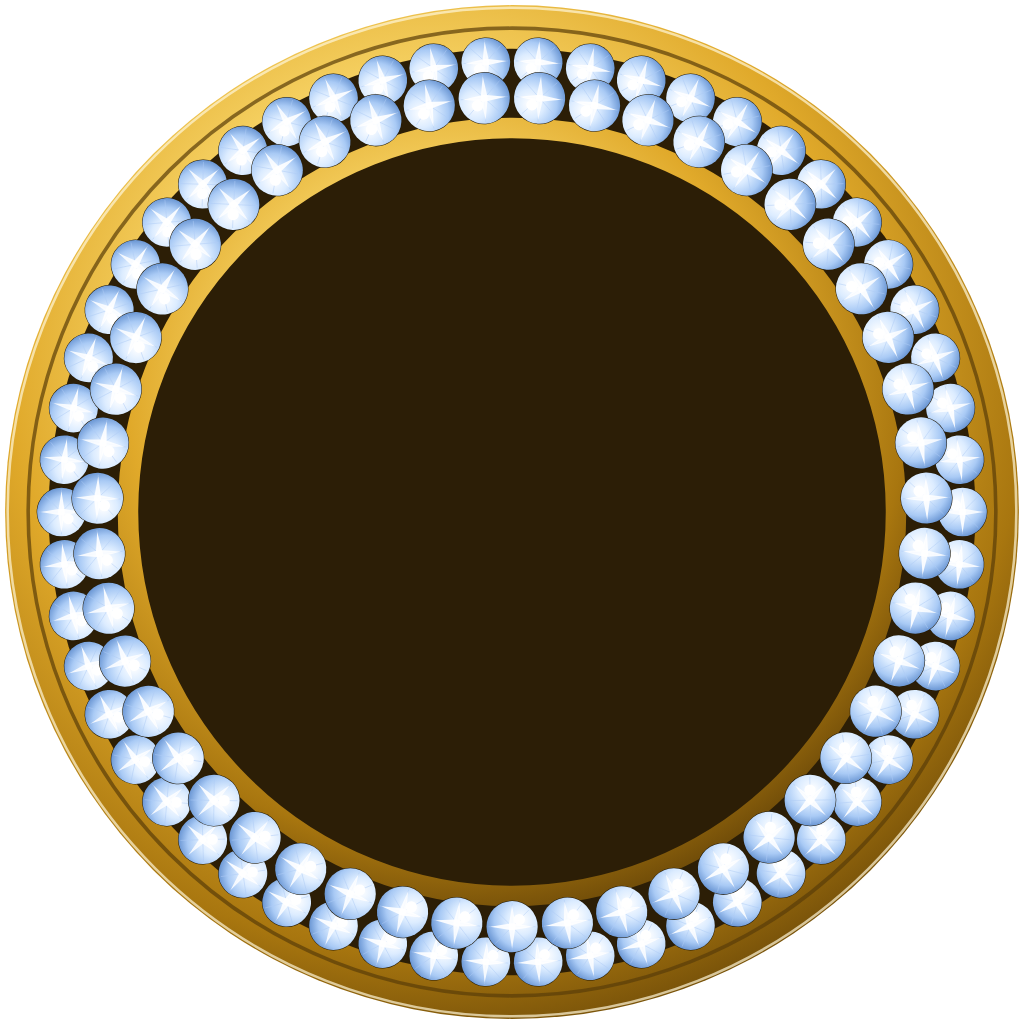
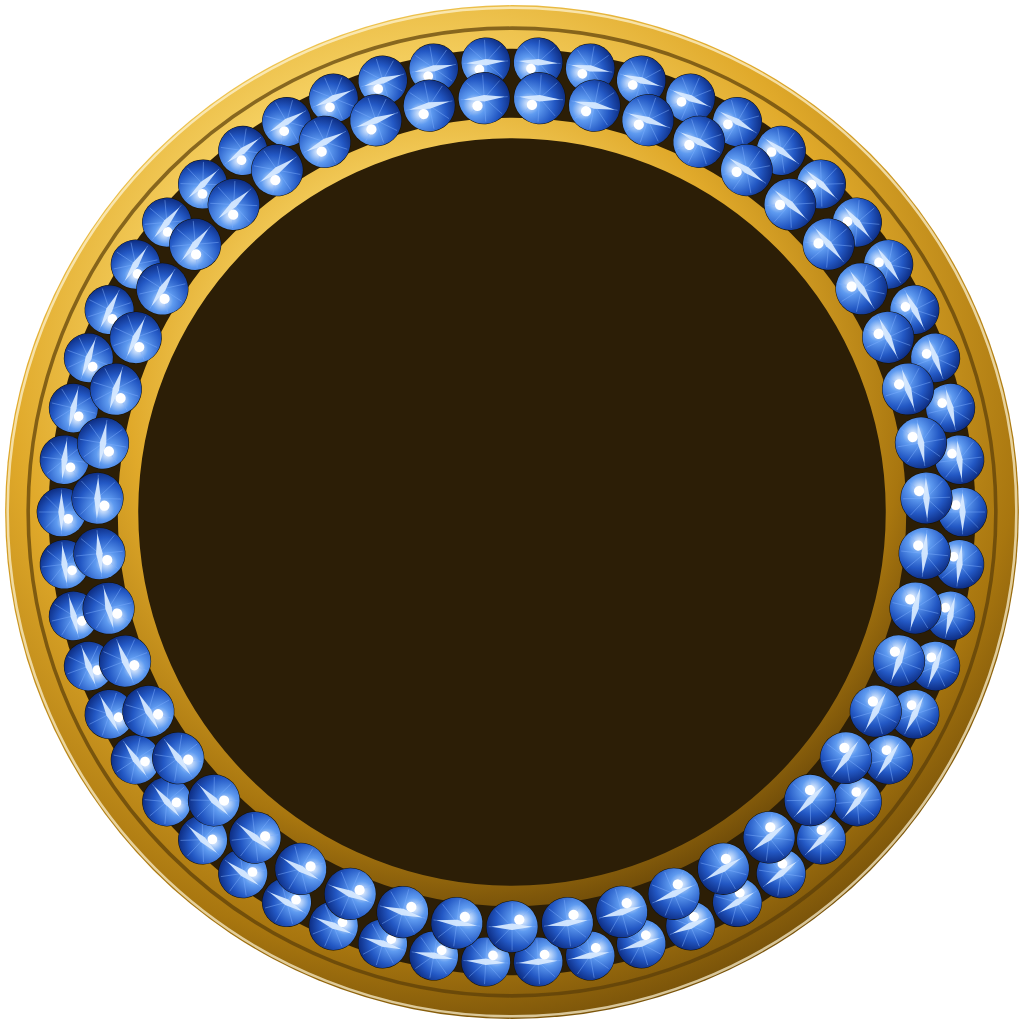
B131: Üstbar düzeltme — profil ayıdan büyük, ayı küçük + mavi safir taşlı
B130'da hiyerarşi ters dönmüştü (profil küçük, ayı büyük). Düzeltildi:
profil ayıdan büyük (telefon 44, tablet 48, pc 52), ayı profilden küçük
(telefon 36, tablet 40, pc 44). Ayı çerçevesi artık mavi safir taşlı
(profilin beyaz pırlantasından farklı) — ayı profille aynı görünmüyor.
sw.js B130->B131.

Claude-Session: https://claude.ai/code/session_01NL5UFbXL2aH6562eJk5V7E

Changed region(s): [[0.0312, 0.0312, 0.9688, 0.9688]]

diff --git a/src/buildGecmisi.js b/src/buildGecmisi.js
@@ -2,6 +2,7 @@
 // Her deploy'da AKTİF satırın: build +1, tarih, saat, aciklama güncelle.
 // Yeni A-serisine geçince başına yeni satır ekle — eski satırlar silinmez.
 export const buildGecmisi = [
+  { surum:'A11', build:131, dosya:'USTBAR DUZELTME (B130 ters olmustu): PROFIL AYIDAN BUYUK + AYI KUCUK + FARKLI RENK TAS (kullanici: "ayiyi cok buyuk yaptin, profilimle ayni cerceve olmaz musteriyi benimle esit yapma, ayinin taslarini baska renk yap, ayi profilden kucuk olacak, profili buyut"). B130 da yanlislikla profil kucultulup (40) ayi buyutulmustu (48) -> hiyerarsi TERS donmustu. DUZELTME: (1) PROFIL ayidan BUYUK: telefon 40->44, tablet 44->48, pc 46->52 (onceki 46 dan birazcik kucuk, kullanici "biraz ufalt" demisti). (2) AYI profilden KUCUK: dugme telefon 48->36, tablet 54->40, pc 62->44; pusula 33->25 / 37->28 / 42->31. (3) AYI TASLARI FARKLI RENK: profil BEYAZ pirlanta iken ayi cercevesi artik MAVI SAFIR taslarla (src/ayiCerceve.png yeniden cizildi) -> ayi profille AYNI gorunmuyor, ayri/ikincil duruyor. Altin halka kaldi. Kure ile ayi arasi bosluk korundu (margin-left:5px). Foto/islev degismedi. sw.js B130->B131.', tarih:'2026-07-07', saat:'21:05', aciklama:'Üstbar düzeltme: profil ayıdan büyük, ayı küçük ve mavi safir taşlı (profille aynı değil). Almanya saati.', tarih2:'' },
   { surum:'A11', build:130, dosya:'USTBAR: PROFIL BIRAZ KUCULDU + AYI (EKSPERT) DUGMESINE PIRLANTA CERCEVE + BIRAZ BUYUDU + KUREDEN UZAK (kullanici). (1) PROFIL cercevesi buyuktu -> .ana-profil telefon 46->40px (tablet 46->44, pc 48->46). (2) AYI DUGMESI (.ana-site-ai / ust Ekspert ayi) artik profil ile AYNI tarzda yuvarlak pirlanta cercevede: kodla cizilmis altin+pave elmas halka (merkez seffaf, src/ayiCerceve.png; Playwright rasterize), inline backgroundImage ile dugmeye kondu; ayinin kendi altin cizgi halkasi (svg circle stroke) kaldirildi (cerceve zaten altin) -> ayi lacivert madalyon icinde. CSS .ana-site-ai background:none !important KALDIRILDI (cerceve gorunsun diye). (3) AYI BIRAZ BUYUDU: dugme 42->48px, pusula 30->33px (tablet 54/37, pc 62/42). (4) AYI KUREYE GELMESIN: .ana-site-ai margin-left:6px -> ust dunya kuresi (.ana-dunya, altyazinin sagina absolute) ile ayi arasinda bosluk; dar telefonda bile cakismaz (360px maket ile dogrulandi). Foto/islev degismedi. sw.js B129->B130.', tarih:'2026-07-07', saat:'20:35', aciklama:'Üstbar: profil biraz küçüldü, ayı düğmesine pırlanta çerçeve + biraz büyüdü, ayı artık küreye değmiyor (arada boşluk). Almanya saati.', tarih2:'' },
   { surum:'A11', build:129, dosya:'YUVARLAK PROFIL CERCEVESI ARTIK SIFIRDAN KODLA CIZILDI (foto-kesme birakildi) — TAM DOLU PIRLANTA + ORTA KIRMIZI (kullanici: "kendin yuvarlak cerceve yap, tam dolu pirlanta olsun, hala ayi gozukuyor, foto yuklerken gorunmuyor, duzgun yuvarlak dugme yap"). Onceki surumlerde kullanicinin foto cercevesinden kesiliyordu -> ayi kalintisi/beyaz merkez/foto oturmama sorunlari. ARTIK: SVG ile tamamen kod cizimi (Playwright ile 1024px e rasterize, 512 ye indirildi, src/profilCerceve.png): dis parlak altin halka + koyu altin yatak + 3 SIRA sik pave pirlanta (176 tas, her biri radyal beyaz-mavi degrade + 8 faset cizgisi + 4 kollu yildiz isilti + koyu yatak) + ic altin halka + ORTA yakut kirmizi radyal degrade (parlak #ff5a63 merkez -> koyu #4a070d) + cam parlakligi. Tam simetrik, ayi/artik YOK. Aciklik (r144/200=%72) CSS foto bindirmesiyle (top/left 14%, %72) BIREBIR ortusur -> foto tam ortaya oturur, kirmizi bosluk yok; fotosuz uyede kirmizi + altin harf gorunur. cerceve.png (kare, alt nav) degismedi. CSS/islev degismedi. sw.js B128->B129.', tarih:'2026-07-07', saat:'20:05', aciklama:'Yuvarlak profil çerçevesi sıfırdan kodla çizildi: tam dolu 3 sıra pırlanta + orta kırmızı yakut, ayı yok, fotoğraf tam oturuyor. Almanya saati.', tarih2:'' },
   { surum:'A11', build:128, dosya:'HEADER YUVARLAK PROFIL CERCEVESI: AYI KALDIRILDI + ORTASI KIRMIZI (fotografsiz musteri artik cirkin beyaz gostermiyor). Kullanici (35857da9 gorseli, isaretleyerek): "bundan kes, ayiyi kaldir, altini kirmizi yap, duzgun simetrik kes". B127 deki yuvarlak cercevenin (61e2db98) ortasi fotografsiz uyede beyaz/bos gorunuyordu. YENI cerceve kullanicinin verdigi gorselden (35857da9 - altin halka + pave elmas + ortada altin ayi amblemi) PIL ile islendi: (1) dis altin halka disi flood/dairesel maske ile SEFFAF; (2) ORTADAKI AYI AMBLEMI tamamen kaldirildi, yerine YAKUT KIRMIZI radyal degrade (parlak #d41e26 merkez -> koyu #3e0a10 kenar) konuldu -> fotografsiz musteride ortada kirmizi + altin harf (beyaz degil); (3) altin+elmas halka korundu, artikta kalan altin hilal r_red buyutulup temizlendi, hafif yukari kaydirilip acikligin merkezine oturtuldu -> temiz, simetrik. src/profilCerceve.png degisti. CSS AYNI (foto hala top/left 14%, %72 bindirir; %72 yeni halkanin ic elmas kenarina tam oturuyor, kirmizi bosluk yok). Sadece gorsel; islev degismedi. sw.js B127->B128.', tarih:'2026-07-07', saat:'19:45', aciklama:'Header yuvarlak profil çerçevesi: ayı kaldırıldı, ortası kırmızı yakut yapıldı (fotoğrafsız müşteride artık çirkin beyaz yok, temiz simetrik). Almanya saati.', tarih2:'' },

diff --git a/src/Anasayfa.css b/src/Anasayfa.css
@@ -772,8 +772,8 @@
 .header-dil .dil-etiket{ display:none; }
 .header-dil .dil-dugme{ width:auto; height:auto; background:none; border:none; box-shadow:none; -webkit-backdrop-filter:none; backdrop-filter:none; }
 /* Pusula da AYNI boy (önceki .ana-ara-btn svg kuralı ufaltıyordu) + profile yakın */
-.ana-site-ai .ana-site-ai-pusula{ width:33px; height:33px; } /* ayı biraz daha büyük — çerçeve içindeki madalyon (kullanıcı) */
-.ana-site-ai{ margin-left:6px; margin-right:-2px; width:48px; height:48px; min-width:48px; } /* ayı büyüdü + yuvarlak pırlanta çerçeve; margin-left → küreden UZAK (ayı dünyaya gelmesin) */
+.ana-site-ai .ana-site-ai-pusula{ width:25px; height:25px; } /* ayı KÜÇÜK — profilden ufak (kullanıcı: ayı profilden küçük olacak) */
+.ana-site-ai{ margin-left:5px; margin-right:-2px; width:36px; height:36px; min-width:36px; } /* ayı profilden KÜÇÜK + mavi safir çerçeve (profille aynı değil); margin-left → küreye değmez */
 .ana-zil{ margin-left:-3px; }
 .ana-logo-sar{ flex:1; display:flex; flex-direction:column; align-items:center; justify-content:center; text-align:center; min-width:0; margin-top:4px; } /* GLOXORG biraz aşağı — üst çerçeveye dayanmasın (kullanıcı) */
 .ana-logo-sat{ display:flex; align-items:center; justify-content:center; gap:9px; }
@@ -848,7 +848,7 @@
 .ana-dunya svg{ display:block; width:100%; height:100%; filter:drop-shadow(0 0 4px rgba(120,200,255,.6)); }
 .ana-profil-foto{ width:100%; height:100%; border-radius:50%; object-fit:cover; }
 .ana-profil{ position:relative; overflow:visible;
-  width:40px; height:40px; flex:none; cursor:pointer; /* biraz küçültüldü (kullanıcı: büyük oldu) */
+  width:44px; height:44px; flex:none; cursor:pointer; /* profil ayıdan BÜYÜK; öncekinden birazcık küçük (kullanıcı) */
   display:flex; align-items:center; justify-content:center;
   background-repeat:no-repeat; transition:filter .2s;
 } /* YUVARLAK pırlanta çerçeve zeminde (Gemini); foto/harf merkezi kapatır (kullanıcı isteği) */
@@ -1568,9 +1568,9 @@ html[dir="rtl"] .ana-menu{ left:auto; right:0; border-right:none; border-left:1p
   .header-dil{ display:inline-flex; }
   .header-dil .dil-dugme svg{ width:29px; height:29px; }
   .menu-dil{ display:none; }
-  .ana-site-ai{ width:54px; height:54px; min-width:54px; } /* çerçeveli ayı — iPad'de belirgin */
-  .ana-site-ai .ana-site-ai-pusula{ width:37px; height:37px; } /* madalyon çerçeve açıklığına otursun */
-  .ana-profil{ width:44px; height:44px; }
+  .ana-site-ai{ width:40px; height:40px; min-width:40px; } /* ayı profilden KÜÇÜK (iPad) */
+  .ana-site-ai .ana-site-ai-pusula{ width:28px; height:28px; }
+  .ana-profil{ width:48px; height:48px; } /* profil ayıdan büyük */
   /* üst ikon sırası ferah — BÜYÜK/belirgin (kullanıcı: iPad yazı/ikon büyüt) */
   .ana-nav{ gap:13px; padding-top:8px; }
   .ana-nav-kutu{ width:58px; height:58px; border-radius:17px; }
@@ -1627,9 +1627,9 @@ html[dir="rtl"] .ana-menu{ left:auto; right:0; border-right:none; border-left:1p
   .ana-menu-cikis{ font-size:22px; padding:19px; }
   .ana-menu-durum{ font-size:16px; }
   .header-dil .dil-dugme svg{ width:31px; height:31px; }
-  .ana-site-ai{ width:62px; height:62px; min-width:62px; } /* çerçeveli ayı — bilgisayar belirgin */
-  .ana-site-ai .ana-site-ai-pusula{ width:42px; height:42px; } /* madalyon çerçeve açıklığına otursun */
-  .ana-profil{ width:46px; height:46px; }
+  .ana-site-ai{ width:44px; height:44px; min-width:44px; } /* ayı profilden KÜÇÜK (bilgisayar) */
+  .ana-site-ai .ana-site-ai-pusula{ width:31px; height:31px; }
+  .ana-profil{ width:52px; height:52px; } /* profil ayıdan büyük */
   /* üst ikon sırası geniş ve ferah — BÜYÜK/belirgin (kullanıcı: notebook yazı/ikon büyüt) */
   .ana-nav{ max-width:820px; gap:15px; padding-top:10px; }
   .ana-nav-kutu{ width:62px; height:62px; border-radius:18px; }
@@ -2128,7 +2128,7 @@ html[dir="rtl"] .ana-menu{ left:auto; right:0; border-right:none; border-left:1p
 
 /* SİTE ASİSTANI başlık ikonu — RENKLİ PUSULA (altın halka + kırmızı/beyaz iğne) */
 .ana-site-ai{ padding:0; display:flex; align-items:center; justify-content:center; background-color:transparent; border:none; } /* çerçeve zemini INLINE style ile (ayiCerceve) — background:none !important KALDIRILDI ki çerçeve görünsün */
-.ana-site-ai-pusula{ width:33px; height:33px; filter:drop-shadow(0 1px 2px rgba(0,0,0,.55)); }
+.ana-site-ai-pusula{ width:25px; height:25px; filter:drop-shadow(0 1px 2px rgba(0,0,0,.55)); }
 .ana-site-ai:active{ transform:scale(.9); }
 
 /* ===== GLOXORG YARDIMCISI — yapay zeka sohbet balonu + penceresi ===== */

diff --git a/public/sw.js b/public/sw.js
@@ -1,7 +1,7 @@
 /* GLOXORG servis çalışanı — bildirim göstermek için (Android Chrome new Notification() desteklemez,
    ServiceWorkerRegistration.showNotification() gerekir). Tam ekran/arka plan sekmede bildirim çıkar.
    SW_SURUM: her yayında ARTAR → tarayıcı yeni sw.js farkını görüp yeni sürümü kurar (eski önbellekte takılmaz). */
-const SW_SURUM = "B130";
+const SW_SURUM = "B131";
 self.addEventListener("install", (e) => { self.skipWaiting(); });
 self.addEventListener("activate", (e) => { e.waitUntil((async () => {
   // Eski onbellekleri temizle (kullanici bir daha ESKI surumde takilmasin)
